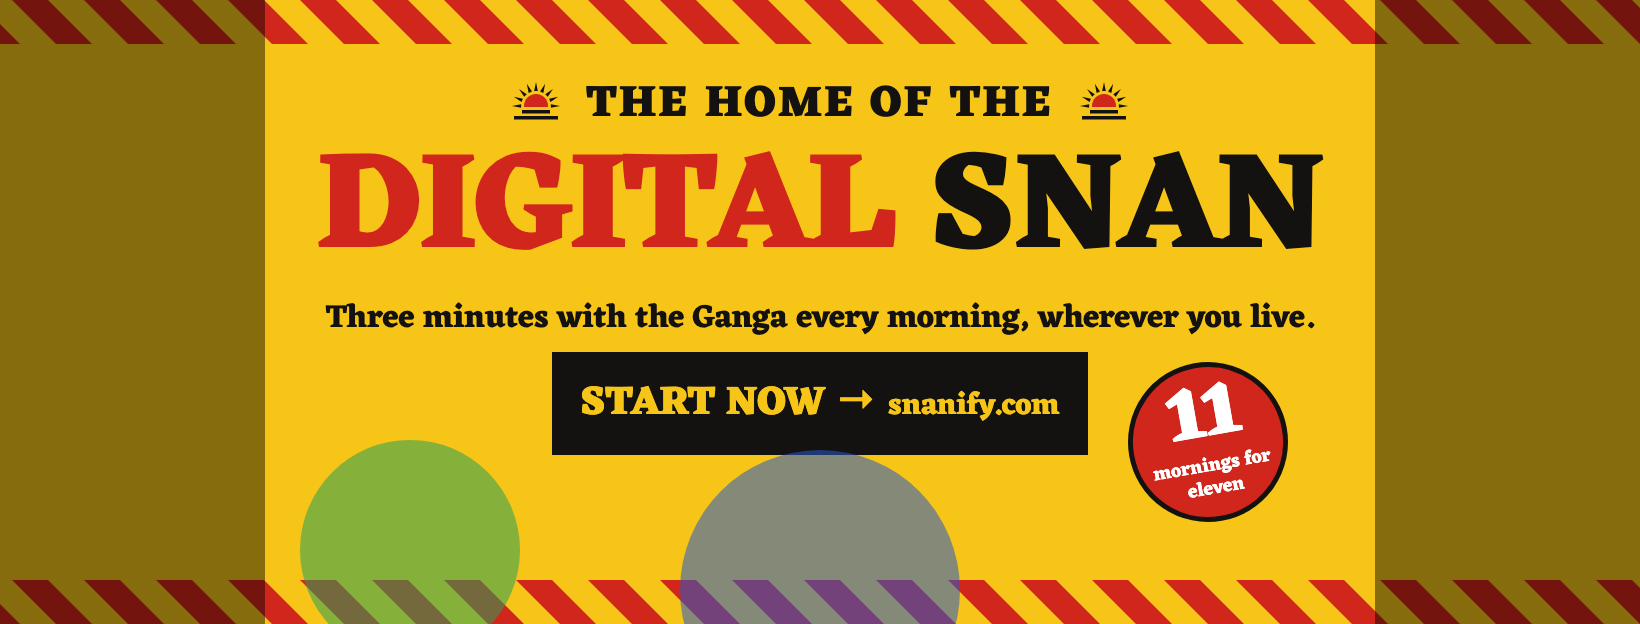
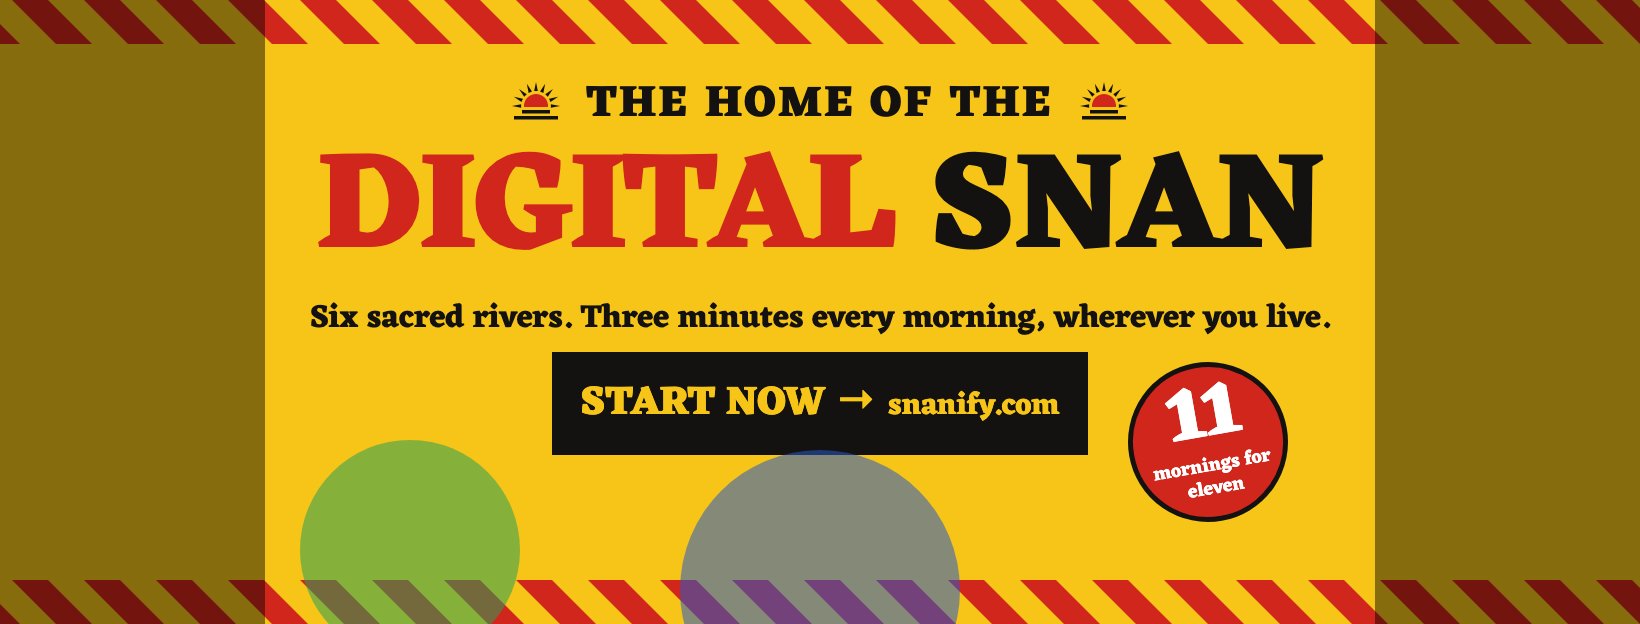
facebook: the cover names six sacred rivers, not the Ganga alone

Changed region(s): [[0.1866, 0.4872, 0.8085, 0.5481]]

diff --git a/ads/src/cover.html b/ads/src/cover.html
@@ -42,7 +42,7 @@
   const t = Object.assign({
     kick: "The home of the",
     top: "Digital", bottom: "Snan",
-    line: "Three minutes with the Ganga every morning, wherever you live.",
+    line: "Six sacred rivers. Three minutes every morning, wherever you live.",
     go: "START NOW", site: "snanify.com",
     sealN: "11", sealS: "mornings for eleven",
   }, p);
